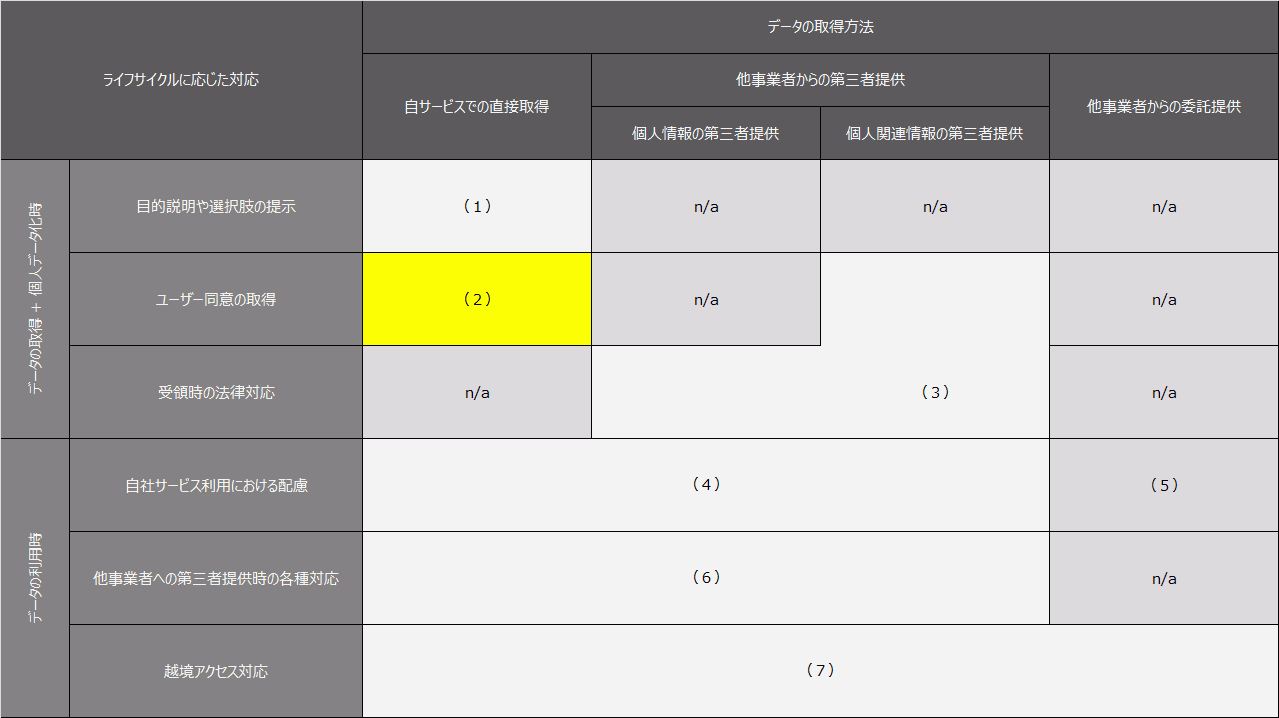
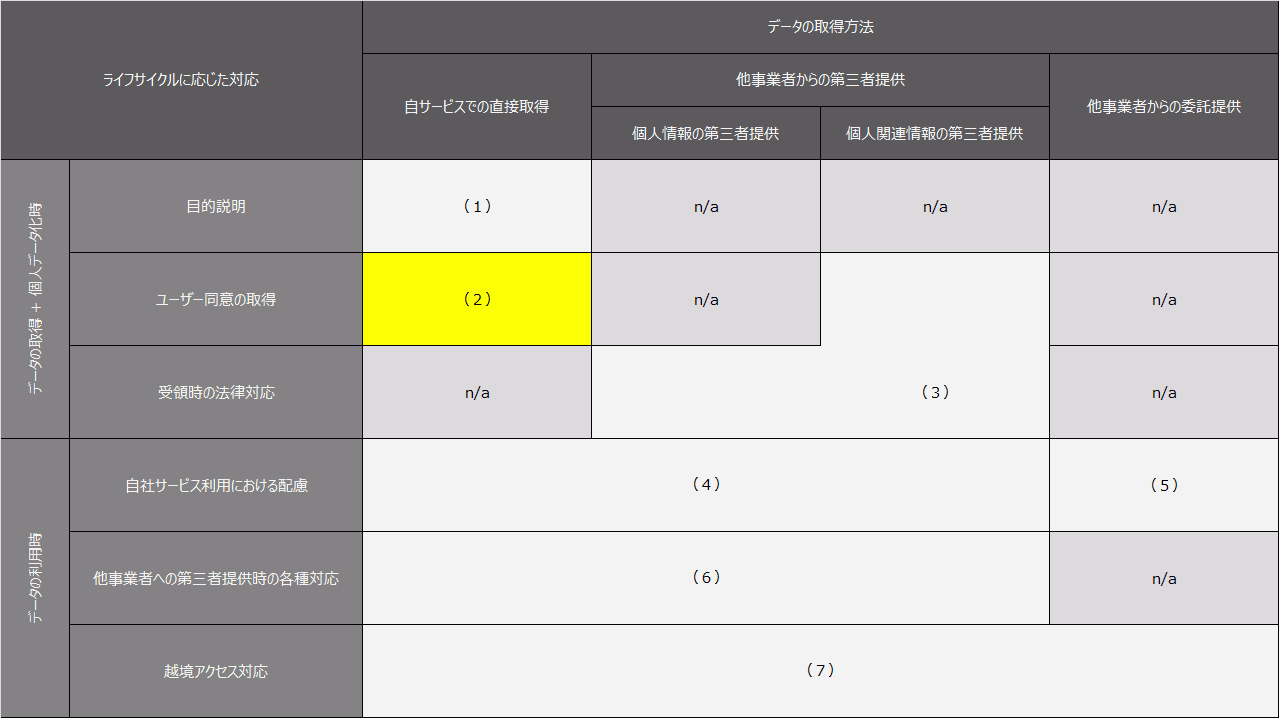
fixed

Changed region(s): [[0.8233, 0.6128, 1.0, 0.766], [0.0915, 0.2758, 0.2439, 0.3064]]

diff --git a/data-gudeline/readme.md b/data-gudeline/readme.md
@@ -2,37 +2,24 @@
 
 こんにちは、プラットフォームエンジニアの中山です。
 
+みなさまのサービスや業務において、データを活用して課題を解決する機会は少なくないと思います。一方でユーザーデータの活用に際しては法律やパートナーとの契約を守ることに加えて、プライバシーへの配慮も重要です。また、取得したデータを個人データ化して活用する際には、データの取得方法によって対応すべきことが異なります。そこで、今回は安心安全のデータ活用のために押さえておきたいポイントについて、表の（１）から（７）の順で述べたいと思います。
 
-プロセスや仕組
+<img src='https://raw.githubusercontent.com/nakayama-kazuki/202x/main/data-gudeline/i0.png' />
 
-## どのようなもの？
+蛇足ですが LINE ヤフーではここで挙げたこと以外も含め、安心安全のデータ活用を推進するための体制やプロセス、仕組を構築しております。興味をお持ちの方は是非お声がけください ^^
 
-<img src='https://raw.githubusercontent.com/nakayama-kazuki/202x/main/data-gudeline/0.png' />
+## 直接取得の際の目的説明
 
-## 目的説明や選択肢の提示
-
-<img src='https://raw.githubusercontent.com/nakayama-kazuki/202x/main/data-gudeline/1.png' />
+<img src='https://raw.githubusercontent.com/nakayama-kazuki/202x/main/data-gudeline/i1.png' />
 
 - 個人情報の取り扱いにあたっては [利用目的を特定](https://www.ppc.go.jp/personalinfo/legal/guidelines_tsusoku/#a3-1-1) する
 - その [目的外では利用できません](https://www.ppc.go.jp/personalinfo/legal/guidelines_tsusoku/#a3-1-3)
 
-## ユーザー同意の取得と受領時の法律対応
+## 直接取得の際の同意
 
-<img src='https://raw.githubusercontent.com/nakayama-kazuki/202x/main/data-gudeline/2-1.png' />
+<img src='https://raw.githubusercontent.com/nakayama-kazuki/202x/main/data-gudeline/i2.png' />
 
-- 背景説明（リクナビ）
-- 必要な同意
-- 必要な法律対応
-- 選択肢の提示
--- 第三者提供の場面などでは、優越的地位の濫用による強制同意（サービス利用するためには絶対に同意をしないと進めない）の文脈で問題になることはある
-
-- これって第三者提供？直接取得？
--- 同意は要配慮個人情報（人種、信条、社会的身分、病歴、犯罪の経歴、犯罪により害を被った事実などをいいます）の取得の際にのみ必要
--- 20 条 2 項 : https://www.ppc.go.jp/personalinfo/legal/guidelines_tsusoku/#a3-3-2
-
-## 最近よく見る Cookie 同意
-
-<img src='https://raw.githubusercontent.com/nakayama-kazuki/202x/main/data-gudeline/3.png' />
+最近よく見る Cookie 同意
 
 - https://businessandlaw.jp/articles/a20230228-1/
 - 個情法では直接取得の同意は必須ではない
@@ -41,9 +28,51 @@
 -- 蛇足だがログインセッション Cookie のようなもの（記事では「ネセサリーCookie」と表現）は同意不要
 - 個情法では↑ではないが、世の同意管理サービスは↑の世界観にあわせて構築されているため昨今よく Cookie 同意を見かけるようになった
 
-## 他事業者への第三者提供時の各種対応
 
-<img src='https://raw.githubusercontent.com/nakayama-kazuki/202x/main/data-gudeline/2-2.png' />
+> まず、個人情報の取得にあたっての同意は、要配慮個人情報（人種、信条、社会的身分、病歴、犯罪の経歴、犯罪により害を被った事実などをいいます）
+> の取得の際にのみ必要と定められています（法20条2項）
+>
+> 20条2項
+> https://www.ppc.go.jp/personalinfo/legal/guidelines_tsusoku/#a3-3-2?
+
+こちらは、第三者提供の場面ではなく、個人情報取扱業者自身が（本人から）取得する場面の規定です。
+（通常の個人情報については取得そのものについては同意が必要とは定められていませんが、要配慮個人情報については、
+人権等の観点から、慎重に取り扱うべきであるとされており、その観点でこういった規定が定められています）
+
+
+## 第三者提供（受領時）の際の同意や法律対応
+
+<img src='https://raw.githubusercontent.com/nakayama-kazuki/202x/main/data-gudeline/i3.png' />
+
+- 背景説明（リクナビ）
+- 必要な同意
+- 必要な法律対応
+
+- これって第三者提供？直接取得？
+-- 同意は要配慮個人情報（人種、信条、社会的身分、病歴、犯罪の経歴、犯罪により害を被った事実などをいいます）の取得の際にのみ必要
+-- 20 条 2 項 : https://www.ppc.go.jp/personalinfo/legal/guidelines_tsusoku/#a3-3-2
+
+## 自社サービス利用における配慮
+
+<img src='https://raw.githubusercontent.com/nakayama-kazuki/202x/main/data-gudeline/i4.png' />
+
+- 20231023-data-guideline.pptx 参照
+
+## 委託提供と AI 利用
+
+<img src='https://raw.githubusercontent.com/nakayama-kazuki/202x/main/data-gudeline/i5.png' />
+
+- 20231023-data-guideline.pptx 参照
+- 以前の外部弁護士との整理も確認
+
+## 第三者提供（提供時）の際の同意や法律対応
+
+
+- 選択肢の提示
+-- 第三者提供の場面などでは、優越的地位の濫用による強制同意（サービス利用するためには絶対に同意をしないと進めない）の文脈で問題になることはある
+
+
+<img src='https://raw.githubusercontent.com/nakayama-kazuki/202x/main/data-gudeline/i6.png' />
 
 - 個人データは第三者提供同意なくさらに提供をすることはできない
 - それが受領したデータの場合、受領者側での同意が難しい場合提供者側での（代理での）同意を検討する
@@ -57,22 +86,9 @@
 -- ヤフーの記載
 -- https://privacy.lycorp.co.jp/ja/acquisition/thirdparties.html
 
-## 自社サービス利用における配慮
-
-<img src='https://raw.githubusercontent.com/nakayama-kazuki/202x/main/data-gudeline/4.png' />
-
-- 20231023-data-guideline.pptx 参照
-
-## 委託提供と AI 利用
-
-<img src='https://raw.githubusercontent.com/nakayama-kazuki/202x/main/data-gudeline/5.png' />
-
-- 20231023-data-guideline.pptx 参照
-- 以前の外部弁護士との整理も確認
-
 ## 越境アクセス対応
 
-<img src='https://raw.githubusercontent.com/nakayama-kazuki/202x/main/data-gudeline/6.png' />
+<img src='https://raw.githubusercontent.com/nakayama-kazuki/202x/main/data-gudeline/i7.png' />
 
 - 海外への委託提供における留意（個情法観点）
 -- https://www.ppc.go.jp/files/pdf/2305_APPI_QA.pdf の #12-1 委託提供であっても、外国にある第三者への提供の場合には本人の同意が必要
@@ -85,7 +101,6 @@
 -- こちらのケースは 27 条 5 項的な「委託の場合は第三者に該当しない」という定めがなく、結果として委託であっても同意が必要
 - 電気通信事業者法観点
 -- 2023 年ヤフーへの行政指導
-
 
 特定社会基盤事業者の指定
 https://www.soumu.go.jp/main_content/000912870.pdf
